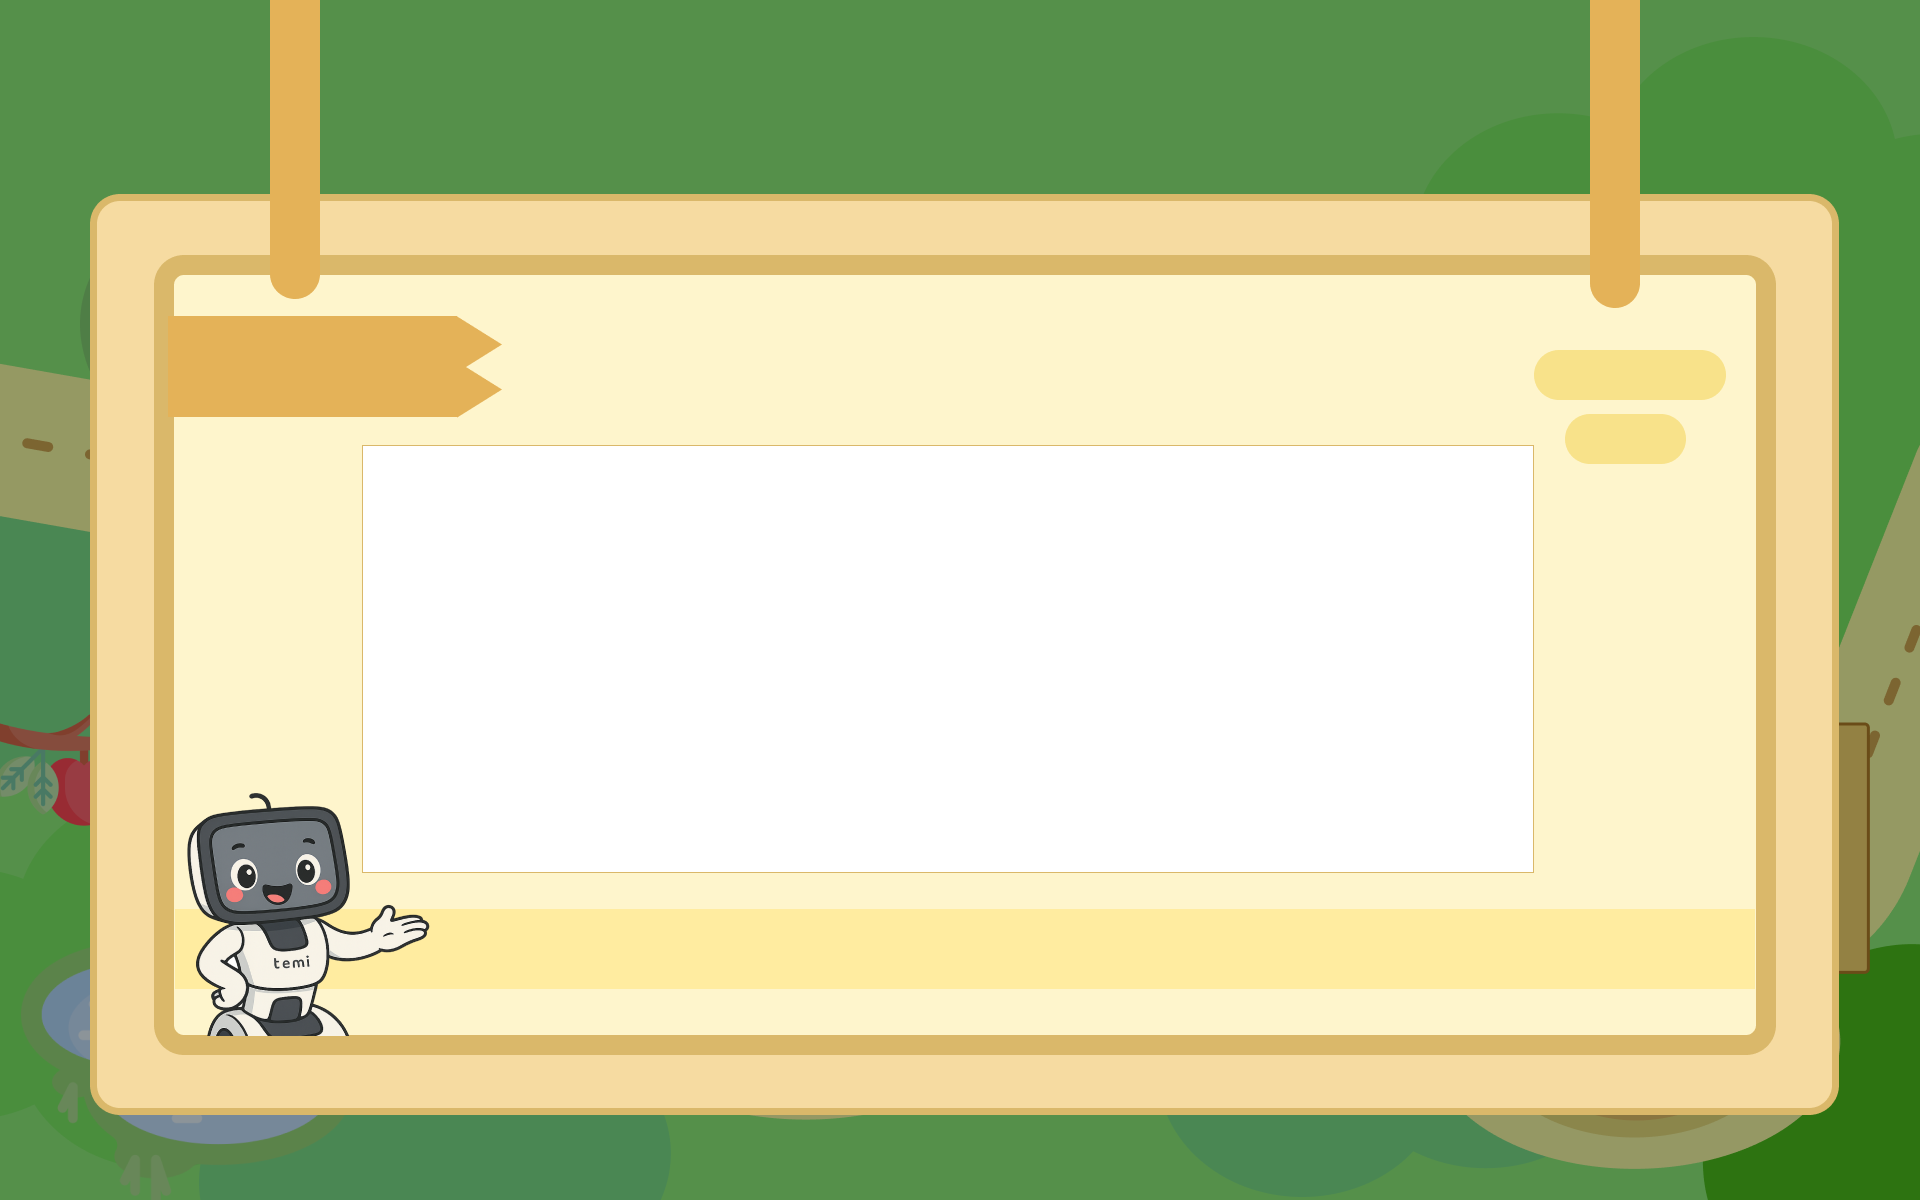
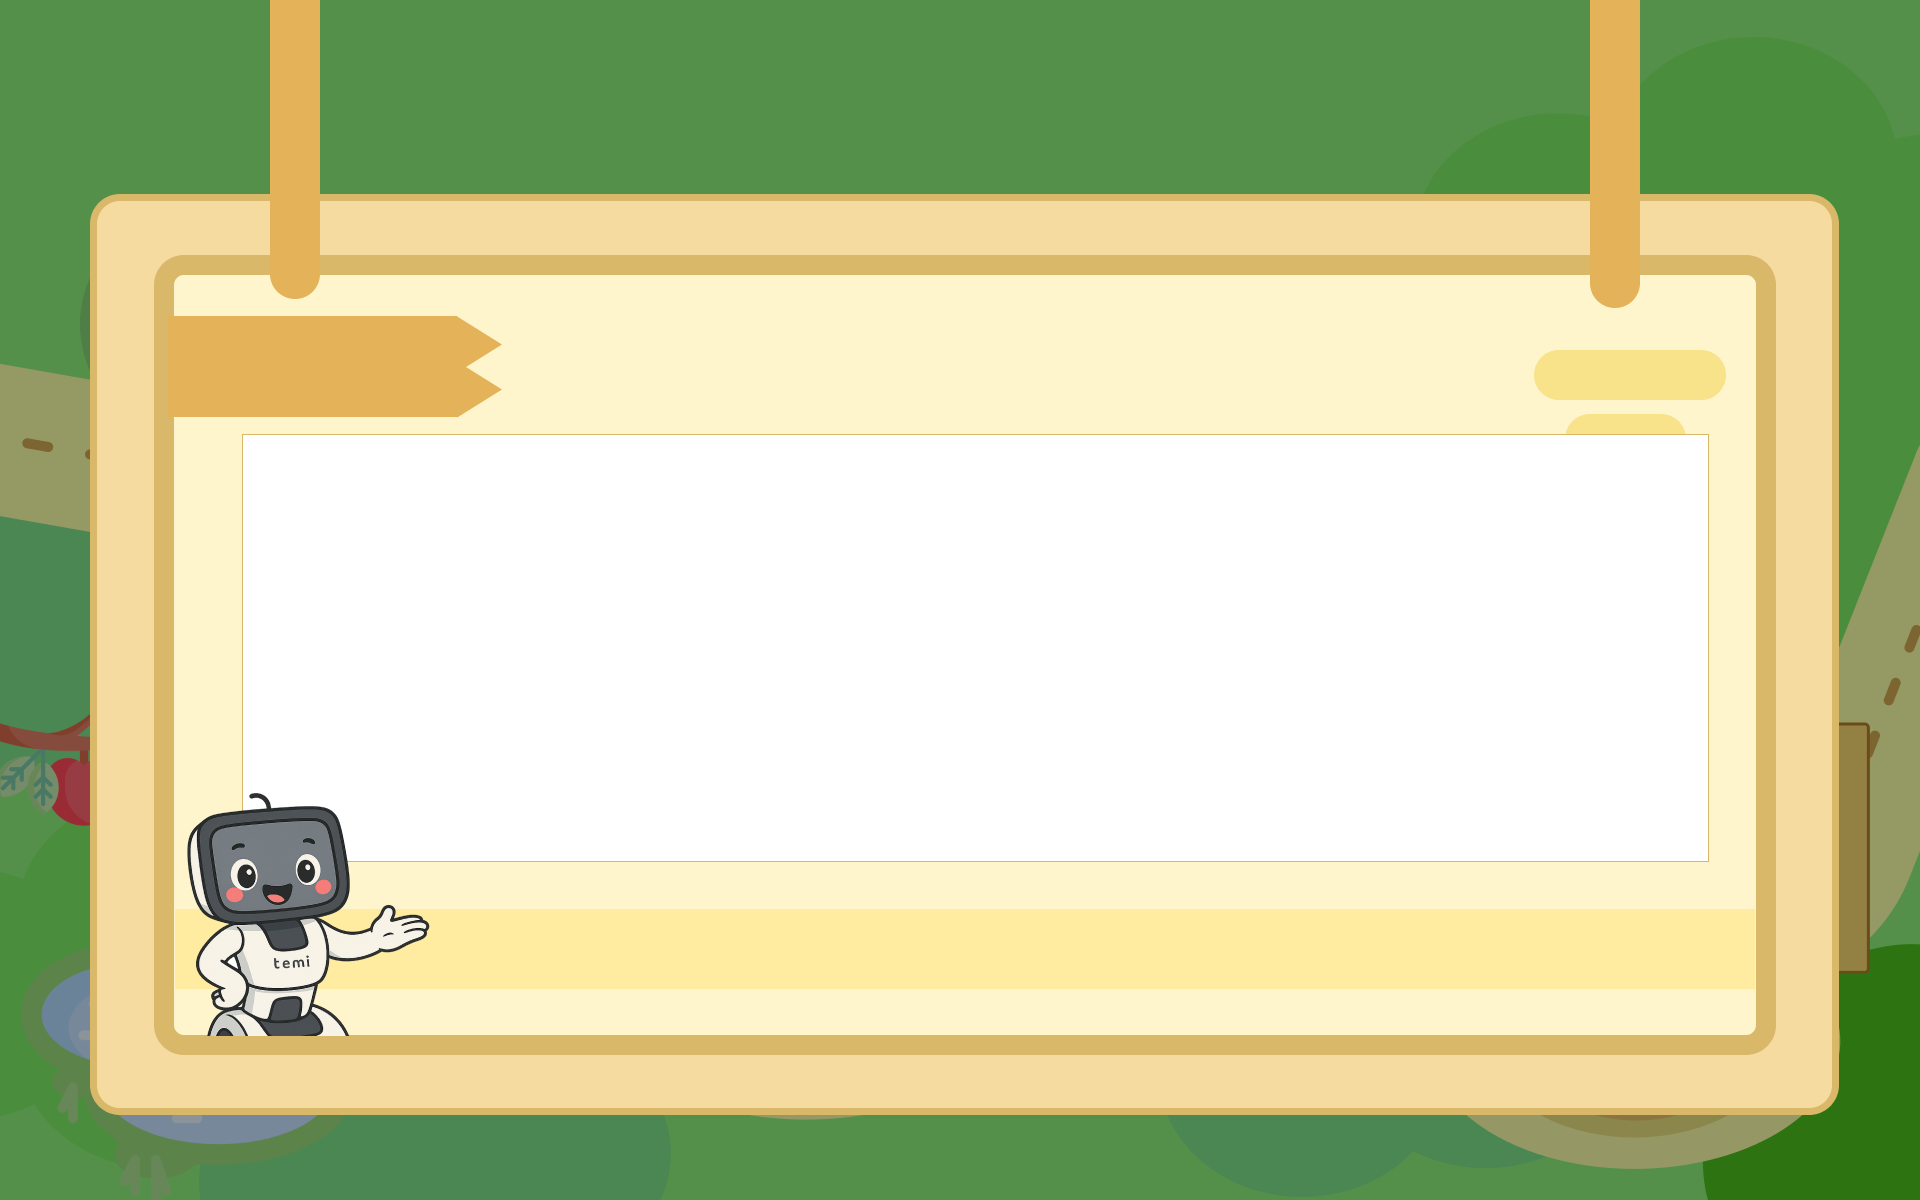
큐알 추가, 길찾기 페이지 수정

Changed region(s): [[0.125, 0.3392, 0.9062, 0.74]]

diff --git a/co-show/src/pages/QuickSearchDetail.jsx b/co-show/src/pages/QuickSearchDetail.jsx
@@ -1,11 +1,21 @@
 import { useLocation, useNavigate } from "react-router-dom";
 import "../styles/quickDetail.css";
 
+const QR_MAP = {
+  "경주로봇 만들기": "src/assets/지능형로봇 QR코드/경주로봇 만들기.png",
+  "로봇아 멍멍해봐": "src/assets/지능형로봇 QR코드/로봇아 멍멍해봐 4족보행로봇 활용 체험.png",
+  "유선 스파이더로봇 만들기": "src/assets/지능형로봇 QR코드/유선 스파이더로봇 만들기.png",
+  "자이로 외발주행로봇 만들기": "src/assets/지능형로봇 QR코드/자이로 외발주행로봇 만들기.png",
+  "청소로봇 만들기": "src/assets/지능형로봇 QR코드/청소로봇 만들기.png",
+  "휴머노이드 이론교육 및 미션수행": "src/assets/지능형로봇 QR코드/휴머노이드 이론교육 및 미션수행.png",
+  "AI 드론 및 로봇·오목 로봇 체험": "src/assets/지능형로봇 QR코드/AI 드로잉 로봇 및 오목 로봇 체험.png",
+  "ROBO SHOW": "src/assets/지능형로봇 QR코드/ROBO SHOW.png",
+};
+
 export default function QuickSearchDetail() {
   const nav = useNavigate();
   const { state } = useLocation();
 
-  // 직접 URL로 들어왔을 때 대비
   if (!state) {
     return (
       <main className="qs-detail-page qs-detail-fallback">
@@ -15,28 +25,44 @@ export default function QuickSearchDetail() {
     );
   }
 
-  const { title, description, bgImage, zonePath, label } = state;
+  const { title, description } = state;
+  const qrImage = QR_MAP[title];
 
   return (
     <main className="qs-detail-page">
-    <div className="qs-detail-bg">
-        <img src={"src/assets/빠른길찾기/A존 보기 클릭 시.png"} alt={title} className="qs-detail-bg-img" />
-    </div>
+      <div className="qs-detail-bg">
+        <img
+          src={"src/assets/빠른길찾기/A존 보기 클릭 시.png"}
+          alt={title}
+          className="qs-detail-bg-img"
+        />
+      </div>
 
-    <div className="qs-detail-content">
+      <div className="qs-detail-content">
         <div className="qs-detail-badge">선택한 체험</div>
         <h1 className="qs-detail-title">{title}</h1>
         <p className="qs-detail-desc">{description}</p>
-    </div>
+        <h1 className="qs-detail-comment">큐알 찍고 원격 현장 줄서자!</h1>
 
-    {/* 버튼들은 content 바깥으로 이동 */}
-    <div className="qs-detail-actions">
-        <button className="qs-detail-go-btn" onClick={() => nav("/quick/view/guide")}>
-        </button>
-        <button className="qs-detail-back-btn" onClick={() => nav(-1)}>
-        </button>
-    </div>
+        {qrImage && (
+          <div className="qs-detail-qr">
+            <img src={qrImage} alt={`${title} QR`} />
+          </div>
+        )}
+      </div>
+
+      <div className="qs-detail-actions">
+        <button
+          className="qs-detail-go-btn"
+          onClick={() =>
+            nav("/quick/view/guide", {
+              state: { targetLocation: title },  
+            })
+          }
+        />
+
+        <button className="qs-detail-back-btn" onClick={() => nav(-1)} />
+      </div>
     </main>
-
   );
 }

diff --git a/co-show/src/styles/quickDetail.css b/co-show/src/styles/quickDetail.css
@@ -26,7 +26,7 @@
   position: relative;
   z-index: 1;
   height: 100%;
-  max-width: 960px;
+  max-width: 1400px;
   margin: 0 auto;
   padding: 80px 40px;
   display: flex;
@@ -37,17 +37,31 @@
 
 .qs-detail-badge {
   position: absolute;
-  left: -280px;
+  left: -60px;
   top:340px;
   font-family: nanumRound;
   font-size: 50px;
 }
-
+.qs-detail-qr{
+  position: absolute;
+  left: 1050px;
+  top:470px;
+}
 .qs-detail-title {
   position: absolute;
   top:500px;
   font-family: nanumRound;
   color: black;
+  font-size: 45px;
+  font-weight: 800;
+  margin: 0;
+}
+.qs-detail-comment{
+  position: absolute;
+  top: 924px;
+  left: 173px;
+  font-family: nanumRound;
+  color: rgb(255, 0, 0);
   font-size: 45px;
   font-weight: 800;
   margin: 0;

diff --git a/co-show/src/pages/TemiGuide.jsx b/co-show/src/pages/TemiGuide.jsx
@@ -58,7 +58,6 @@ export default function TemiGuide() {
           잠시만 기다려 주세요.
         </p>
         
-        {/* 뒤로가기 (테스트용) */}
         <button 
           onClick={() => navigate(-1)} 
           style={{ 
